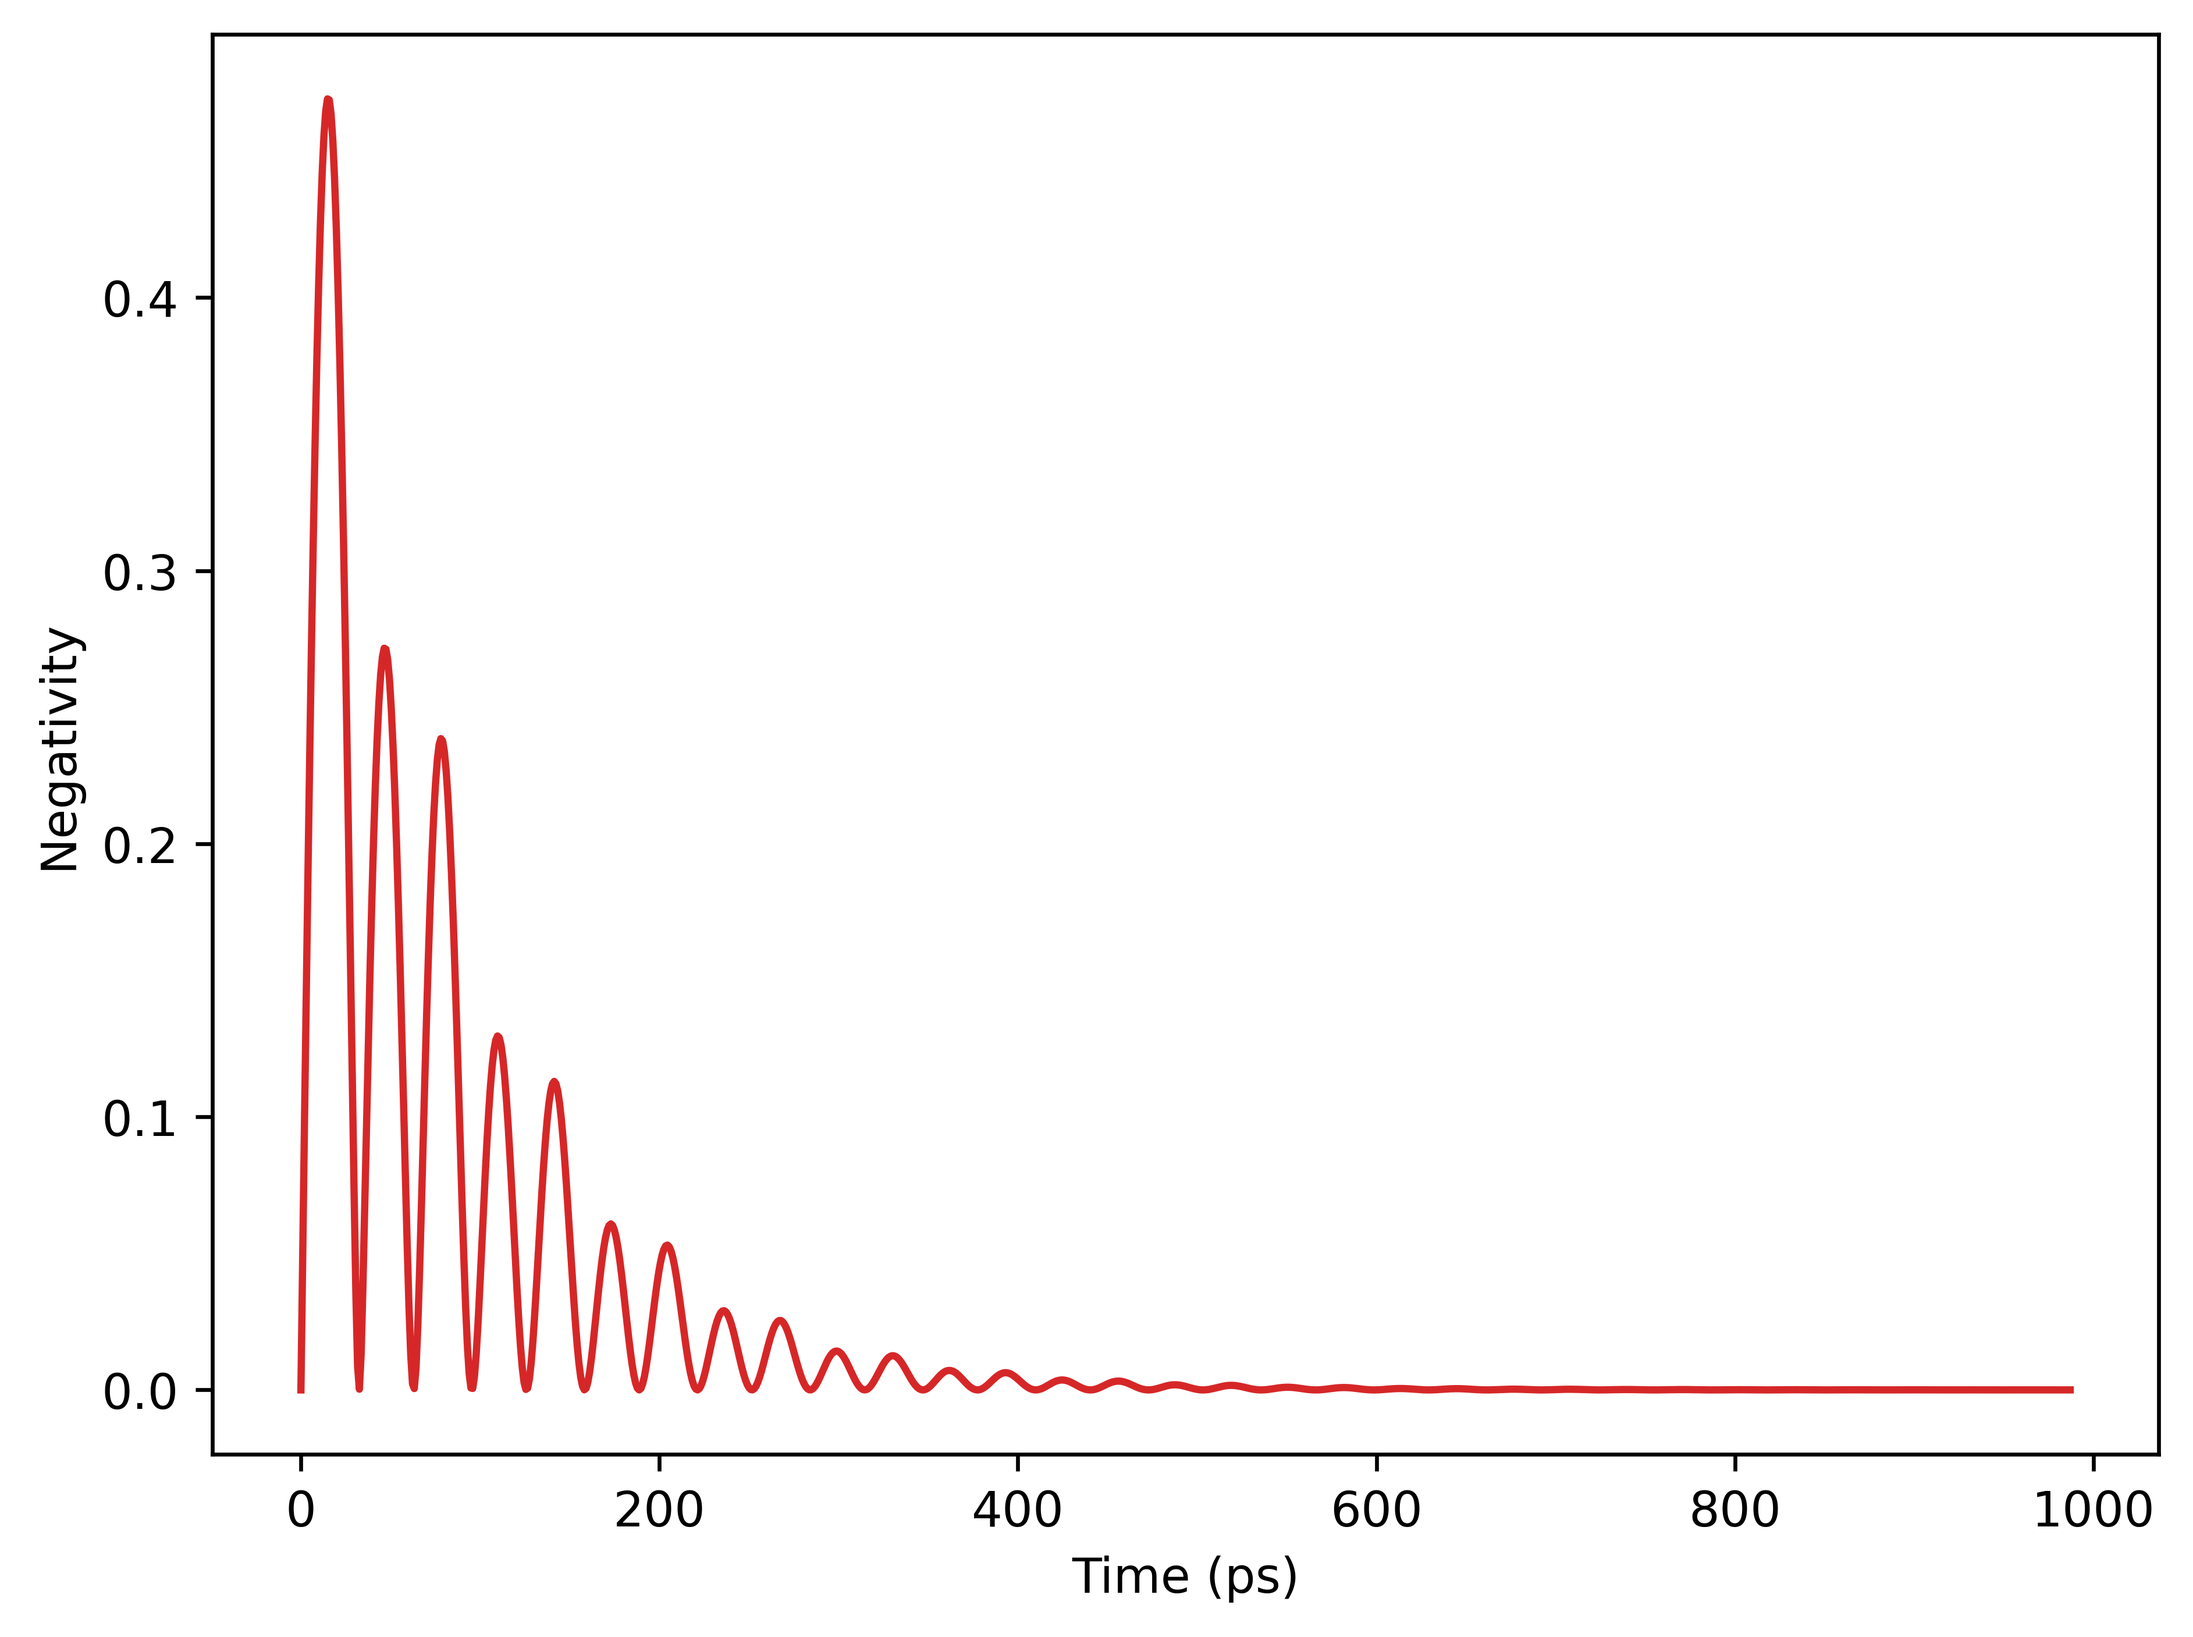
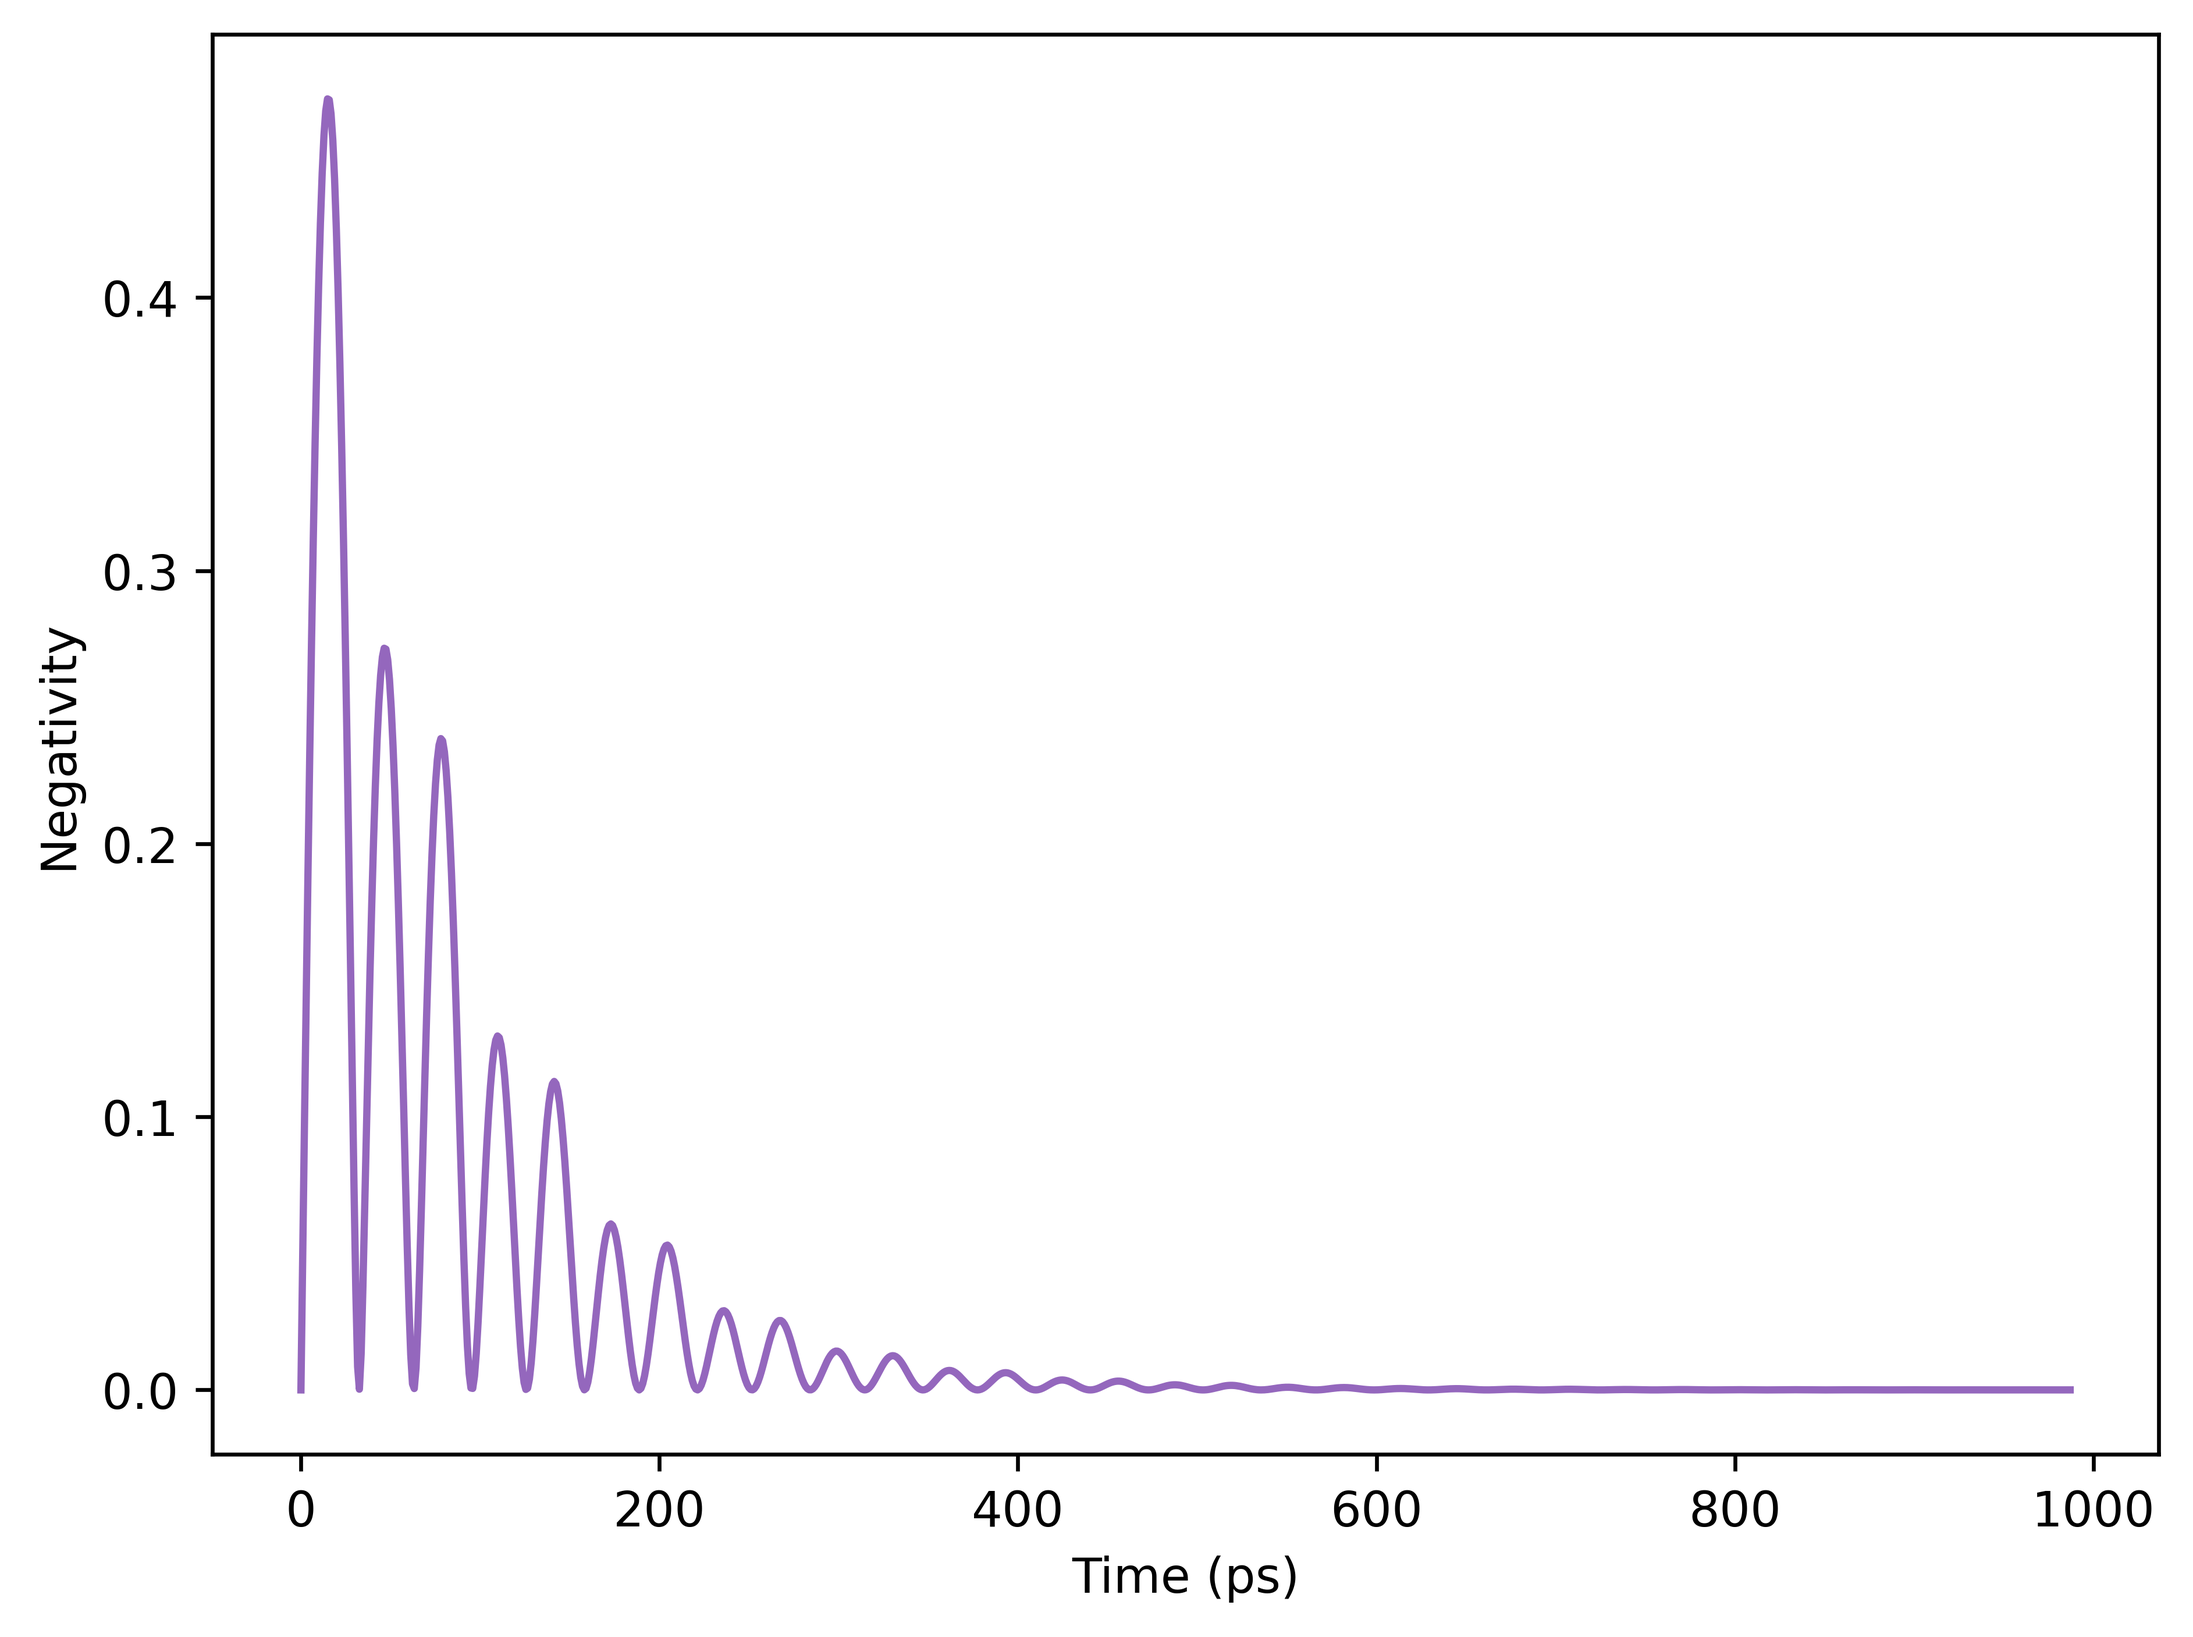
Improves consistency of plot-formatting.

Changed region(s): [[0.1242, 0.0619, 0.9313, 0.866]]

diff --git a/Research Project/Code/ExVib_Closed.py b/Research Project/Code/ExVib_Closed.py
@@ -57,18 +57,15 @@ e_ops = [s_lower * s_raise, n1_pop]
 
 sim_e0_env = TLSQHOSimulator(H, psi0_e0, e_ops=e_ops, times=tlist_env)
 sim_eg_env = TLSQHOSimulator(H, psi0_eg, e_ops=e_ops, times=tlist_env)
-sim_e0_env_long = TLSQHOSimulator(H, psi0_e0, e_ops=e_ops, times=tlist_env_long)
-sim_eg_env_long = TLSQHOSimulator(H, psi0_eg, e_ops=e_ops, times=tlist_env_long)
 results_e0_env = sim_e0_env.evolve()
 results_eg_env = sim_eg_env.evolve()
-results_e0_env_long = sim_e0_env_long.evolve()
-results_eg_env_long = sim_eg_env_long.evolve()
+
 
 results_expt_e0_env = sim_e0_env.expect(results_e0_env)
 results_expt_eg_env = sim_eg_env.expect(results_eg_env)
 
-vne_e0_env = sim_e0_env_long.vne(results_e0_env_long)
-vne_eg_env = sim_eg_env_long.vne(results_eg_env_long)
+vne_e0_env = sim_e0_env.vne(results_e0_env)
+vne_eg_env = sim_eg_env.vne(results_eg_env)
 
 coh_tls_e0_env = sim_e0_env.rel_coherence(results_e0_env, subsys="TLS")
 coh_qho_e0_env = sim_e0_env.rel_coherence(results_e0_env, subsys="QHO")
@@ -110,12 +107,12 @@ sim_e0_env.plot(
         {
             "y_data": results_expt_e0_env[0],
             "label": "Exciton ground state",
-            "colour": "tab:blue",
+            "colour": "tab:red",
         },
         {
             "y_data": results_expt_e0_env[1],
             "label": "Vibration photon number, n = 1",
-            "colour": "tab:red",
+            "colour": "tab:blue",
         },
     ],
     y_label="Expectation Values",
@@ -125,7 +122,7 @@ sim_e0_env.plot(
 
 sim_e0_env.plot(
     "vne",
-    [{"y_data": vne_e0_env}],
+    [{"y_data": vne_e0_env, "colour": "tab:purple"}],
     y_label="Von Neumann Entanglement Entropy",
     savepath="/ExVib/Closed/Envelope",
     smooth=150
@@ -134,8 +131,8 @@ sim_e0_env.plot(
 sim_e0_env.plot(
     "coh",
     [
-        {"y_data": coh_tls_e0_env, "label": "Exciton subsystem", "colour": "tab:blue"},
-        {"y_data": coh_qho_e0_env, "label": "Vibration subsystem", "colour": "tab:red"},
+        {"y_data": coh_tls_e0_env, "label": "Exciton subsystem", "colour": "tab:red"},
+        {"y_data": coh_qho_e0_env, "label": "Vibration subsystem", "colour": "tab:blue"},
         {"y_data": coh_tot_e0_env, "label": "Total system", "colour": "tab:green"},
     ],
     y_label="Relative Entropy of Coherence",
@@ -150,12 +147,12 @@ sim_eg_env.plot(
         {
             "y_data": results_expt_eg_env[0],
             "label": "Exciton ground state",
-            "colour": "tab:blue",
+            "colour": "tab:red",
         },
         {
             "y_data": results_expt_eg_env[1],
             "label": "Vibration photon number, n = 1",
-            "colour": "tab:red",
+            "colour": "tab:blue",
         },
     ],
     y_label="Expectation Values",
@@ -165,7 +162,7 @@ sim_eg_env.plot(
 
 sim_eg_env.plot(
     "vne_eg",
-    [{"y_data": vne_eg_env}],
+    [{"y_data": vne_eg_env, "colour": "tab:purple"}],
     y_label="Von Neumann Entanglement Entropy",
     savepath="/ExVib/Closed/Envelope",
     smooth=150
@@ -174,8 +171,8 @@ sim_eg_env.plot(
 sim_eg_env.plot(
     "coh_eg",
     [
-        {"y_data": coh_tls_eg_env, "label": "Exciton subsystem", "colour": "tab:blue"},
-        {"y_data": coh_qho_eg_env, "label": "Vibration subsystem", "colour": "tab:red"},
+        {"y_data": coh_tls_eg_env, "label": "Exciton subsystem", "colour": "tab:red"},
+        {"y_data": coh_qho_eg_env, "label": "Vibration subsystem", "colour": "tab:blue"},
         {"y_data": coh_tot_eg_env, "label": "Total system", "colour": "tab:green"},
     ],
     y_label="Relative Entropy of Coherence",
@@ -192,12 +189,12 @@ sim_e0_fast.plot(
         {
             "y_data": results_expt_e0_fast[0],
             "label": "Exciton ground state",
-            "colour": "tab:blue",
+            "colour": "tab:red",
         },
         {
             "y_data": results_expt_e0_fast[1],
             "label": "Vibration photon number, n = 1",
-            "colour": "tab:red",
+            "colour": "tab:blue",
         },
     ],
     y_label="Expectation Values",
@@ -206,7 +203,7 @@ sim_e0_fast.plot(
 
 sim_e0_fast.plot(
     "vne",
-    [{"y_data": vne_e0_fast}],
+    [{"y_data": vne_e0_fast, "colour": "tab:purple"}],
     y_label="Von Neumann Entanglement Entropy",
     savepath="/ExVib/Closed/Fast",
 )
@@ -214,11 +211,11 @@ sim_e0_fast.plot(
 sim_e0_fast.plot(
     "coh",
     [
-        {"y_data": coh_tls_e0_fast, "label": "Exciton subsystem", "colour": "tab:blue"},
+        {"y_data": coh_tls_e0_fast, "label": "Exciton subsystem", "colour": "tab:red"},
         {
             "y_data": coh_qho_e0_fast,
             "label": "Vibration subsystem",
-            "colour": "tab:red",
+            "colour": "tab:blue",
         },
         {"y_data": coh_tot_e0_fast, "label": "Total system", "colour": "tab:green"},
     ],
@@ -233,12 +230,12 @@ sim_eg_fast.plot(
         {
             "y_data": results_expt_eg_fast[0],
             "label": "Exciton ground state",
-            "colour": "tab:blue",
+            "colour": "tab:red",
         },
         {
             "y_data": results_expt_eg_fast[1],
             "label": "Vibration photon number, n = 1",
-            "colour": "tab:red",
+            "colour": "tab:blue",
         },
     ],
     y_label="Expectation Values",
@@ -247,7 +244,7 @@ sim_eg_fast.plot(
 
 sim_eg_fast.plot(
     "vne_eg",
-    [{"y_data": vne_eg_fast}],
+    [{"y_data": vne_eg_fast, "colour": "tab:purple"}],
     y_label="Von Neumann Entanglement Entropy",
     savepath="/ExVib/Closed/Fast",
 )
@@ -255,11 +252,11 @@ sim_eg_fast.plot(
 sim_eg_fast.plot(
     "coh_eg",
     [
-        {"y_data": coh_tls_eg_fast, "label": "Exciton subsystem", "colour": "tab:blue"},
+        {"y_data": coh_tls_eg_fast, "label": "Exciton subsystem", "colour": "tab:red"},
         {
             "y_data": coh_qho_eg_fast,
             "label": "Vibration subsystem",
-            "colour": "tab:red",
+            "colour": "tab:blue",
         },
         {"y_data": coh_tot_eg_fast, "label": "Total system", "colour": "tab:green"},
     ],

diff --git a/Research Project/Code/TLSQHOSimulator.py b/Research Project/Code/TLSQHOSimulator.py
@@ -225,6 +225,7 @@ class TLSQHOSimulator:
         title: str = None,
         savepath: str = None,
         smooth: int = None,
+        linewidth: float = None,
     ):
         """
         Plots data and saves to specific location in repository.
@@ -238,6 +239,7 @@ class TLSQHOSimulator:
             title(str) : Optional, name of graph.
             savepath(str) : Optional, path from "results" directory which the user wants to save their plots to.
             smooth(int) : Optional, plots a smoothed version of graph, using a moving average.
+            linewidth(float) : Optional, adjusts linedwidth of plots.
 
         Example:
             sim.plot(
@@ -257,20 +259,27 @@ class TLSQHOSimulator:
             label = line.get("label", None)
             colour = line.get("colour", "tab:red")
             linestyle = line.get("linestyle", "-")
+            linewidth = line.get("linewidth", 1.5)  # matplotlib linewidth default = 1.5
 
             if smooth is not None:
                 plt.plot(self.times, y_data, color=colour, alpha=0.3, linestyle="--")
-                y_data_smooth = uniform_filter1d(y_data, size=smooth) 
+                y_data_smooth = uniform_filter1d(y_data, size=smooth)
                 plt.plot(
                     self.times,
                     y_data_smooth,
                     color=colour,
                     label=label,
                     linestyle=linestyle,
+                    linewidth=linewidth,
                 )
             else:
                 plt.plot(
-                    self.times, y_data, color=colour, label=label, linestyle=linestyle
+                    self.times,
+                    y_data,
+                    color=colour,
+                    label=label,
+                    linestyle=linestyle,
+                    linewidth=linewidth,
                 )
 
         if any(line.get("label") for line in plot_lines):

diff --git a/Research Project/Code/JCM_Closed_eg.py b/Research Project/Code/JCM_Closed_eg.py
@@ -56,17 +56,17 @@ sim.plot(
         {
             "y_data": results_expt[0],
             "label": "Excited atomic state",
-            "colour": "tab:blue",
+            "colour": "tab:orange",
         },
         {
             "y_data": results_expt[2],
             "label": "Ground atomic state",
-            "colour": "tab:green",
+            "colour": "tab:red",
         },
         {
             "y_data": results_expt[1],
             "label": "Cavity photon number, n = 0",
-            "colour": "tab:red",
+            "colour": "tab:blue",
         },
 
     ],
@@ -76,7 +76,7 @@ sim.plot(
 
 sim.plot(
     "CQS_vne_eg",
-    [{"y_data": vne}],
+    [{"y_data": vne, "colour" : "tab:purple"}],
     y_label="Von Neumann Entanglement Entropy",
     savepath="JCM",
 )
@@ -84,8 +84,8 @@ sim.plot(
 sim.plot(
     "CQS_coh_eg",
     [
-        {"y_data": coh_tls, "label": "Atomic subsystem", "colour": "tab:blue"},
-        {"y_data": coh_qho, "label": "Cavity subsystem", "colour": "tab:red"},
+        {"y_data": coh_tls, "label": "Atomic subsystem", "colour": "tab:red"},
+        {"y_data": coh_qho, "label": "Cavity subsystem", "colour": "tab:blue"},
         {"y_data": coh_tot, "label": "Total system", "colour": "tab:green"},
     ],
     y_label="Relative Entropy of Coherence",

diff --git a/Research Project/Code/JCM_Closed.py b/Research Project/Code/JCM_Closed.py
@@ -53,12 +53,12 @@ sim.plot(
         {
             "y_data": results_expt[0],
             "label": "Excited Atomic State",
-            "colour": "tab:blue",
+            "colour": "tab:red",
         },
         {
             "y_data": results_expt[1],
             "label": "Cavity photon number, n = 1",
-            "colour": "tab:red",
+            "colour": "tab:blue",
         },
     ],
     y_label="Populations",
@@ -67,7 +67,7 @@ sim.plot(
 
 sim.plot(
     "CQS_vne",
-    [{"y_data": vne}],
+    [{"y_data": vne, "colour" : "tab:purple"}],
     y_label="Von Neumann Entanglement Entropy",
     savepath="JCM",
 )
@@ -76,11 +76,11 @@ sim.plot(
 sim.plot(
     "CQS_coh",
     [
-        {"y_data": coh_tls, "label": "Atomic subsystem", "colour": "tab:blue"},
+        {"y_data": coh_tls, "label": "Atomic subsystem", "colour": "tab:red"},
         {
             "y_data": coh_qho,
             "label": "Cavity subsystem",
-            "colour": "tab:red",
+            "colour": "tab:blue",
             "linestyle": "--",
         },
         {"y_data": coh_total, "label": "Total system", "colour": "tab:green"},

diff --git a/Research Project/Code/JCM_Open.py b/Research Project/Code/JCM_Open.py
@@ -98,7 +98,7 @@ sim_open_spont.plot(
     [
         {
             "y_data": neg_spont,
-            "colour": "tab:red",
+            "colour": "tab:purple",
         },
     ],
     "Negativity",
@@ -110,7 +110,7 @@ sim_open_therm.plot(
     [
         {
             "y_data": neg_therm,
-            "colour": "tab:red",
+            "colour": "tab:purple",
         },
     ],
     "Negativity",
@@ -122,7 +122,7 @@ sim_open_both.plot(
     [
         {
             "y_data": neg_both,
-            "colour": "tab:red",
+            "colour": "tab:purple",
         },
     ],
     "Negativity",

diff --git a/Research Project/Code/JCM_Open_eg.py b/Research Project/Code/JCM_Open_eg.py
@@ -99,7 +99,7 @@ sim_open_spont.plot(
     [
         {
             "y_data": neg_spont,
-            "colour": "tab:red",
+            "colour": "tab:purple",
         },
     ],
     "Negativity",
@@ -111,7 +111,7 @@ sim_open_therm.plot(
     [
         {
             "y_data": neg_therm,
-            "colour": "tab:red",
+            "colour": "tab:purple",
         },
     ],
     "Negativity",
@@ -123,7 +123,7 @@ sim_open_both.plot(
     [
         {
             "y_data": neg_both,
-            "colour": "tab:red",
+            "colour": "tab:purple",
         },
     ],
     "Negativity",

diff --git a/Research Project/Code/ExVib_Neg_Open.py b/Research Project/Code/ExVib_Neg_Open.py
@@ -87,7 +87,7 @@ for decay_label, lindblad_ops in decay_ops.items():
         # one plot per initial state (always red)
         sim.plot(
             f"neg_{decay_label}_{psi_label}",
-            [{"y_data": neg, "colour": "tab:red"}],
+            [{"y_data": neg, "colour": "tab:purple"}],
             y_label="Negativity",
             savepath="ExVib/Open/Negativity",
             smooth=13
